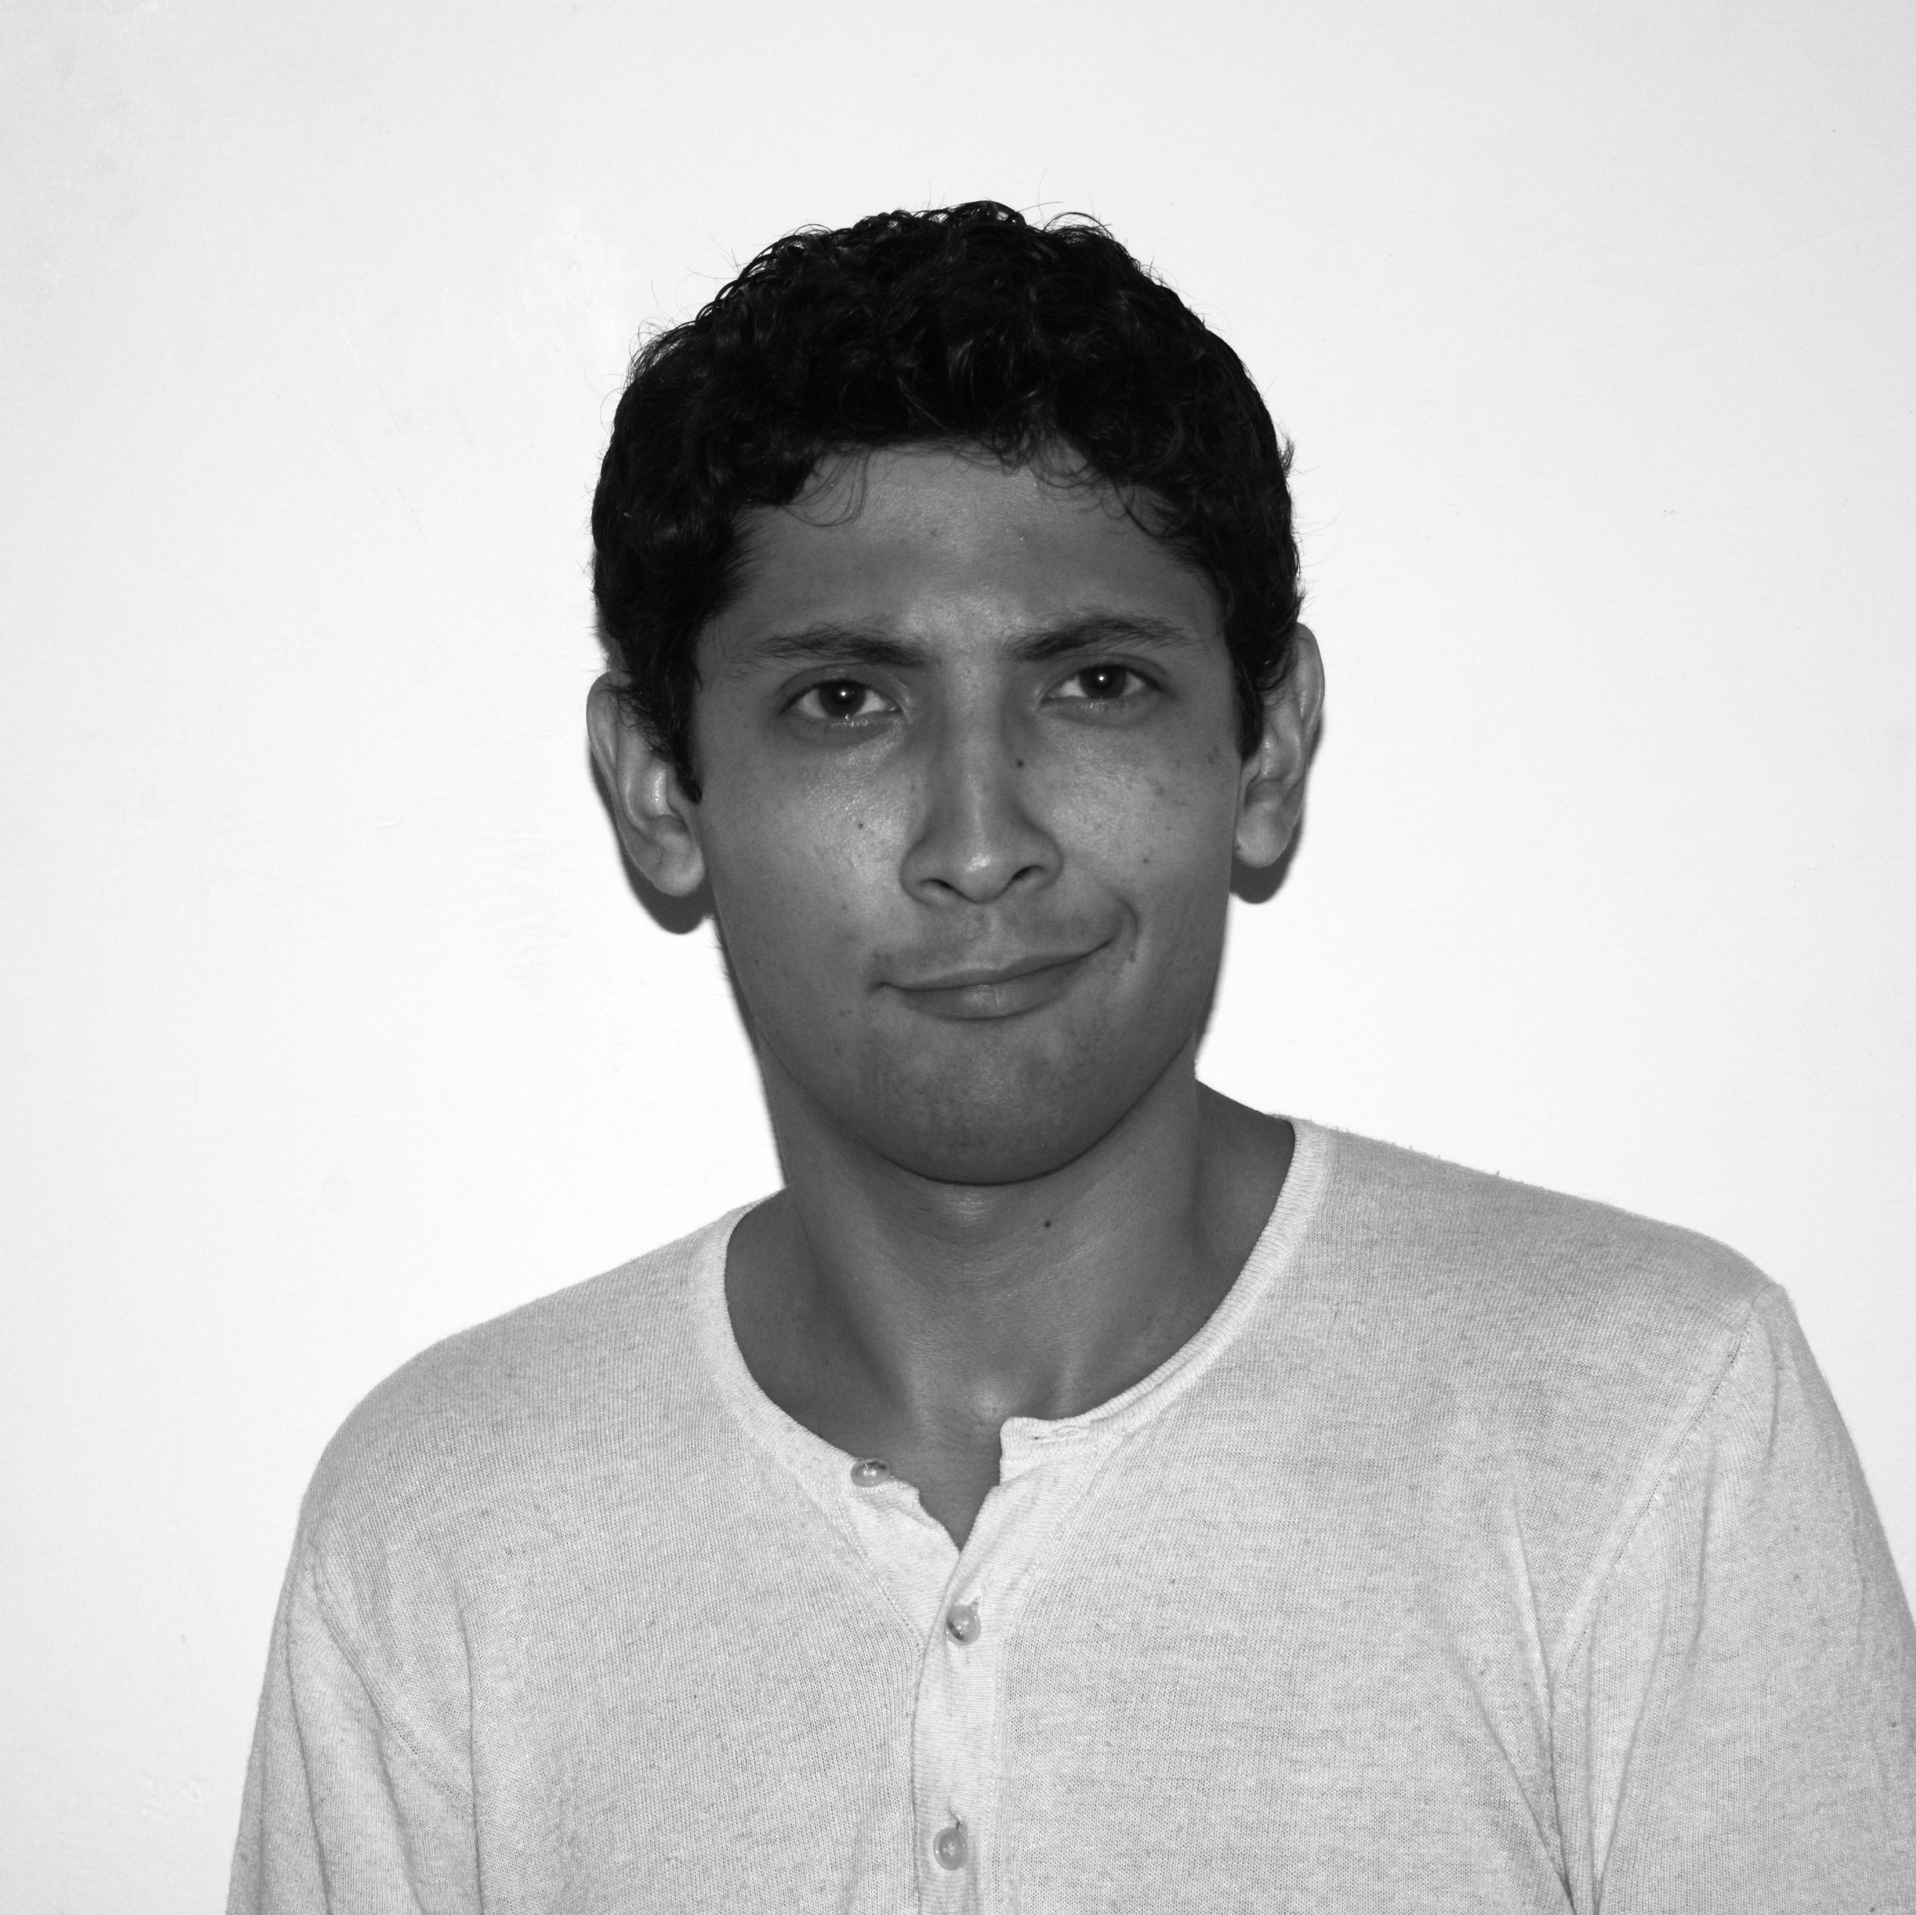
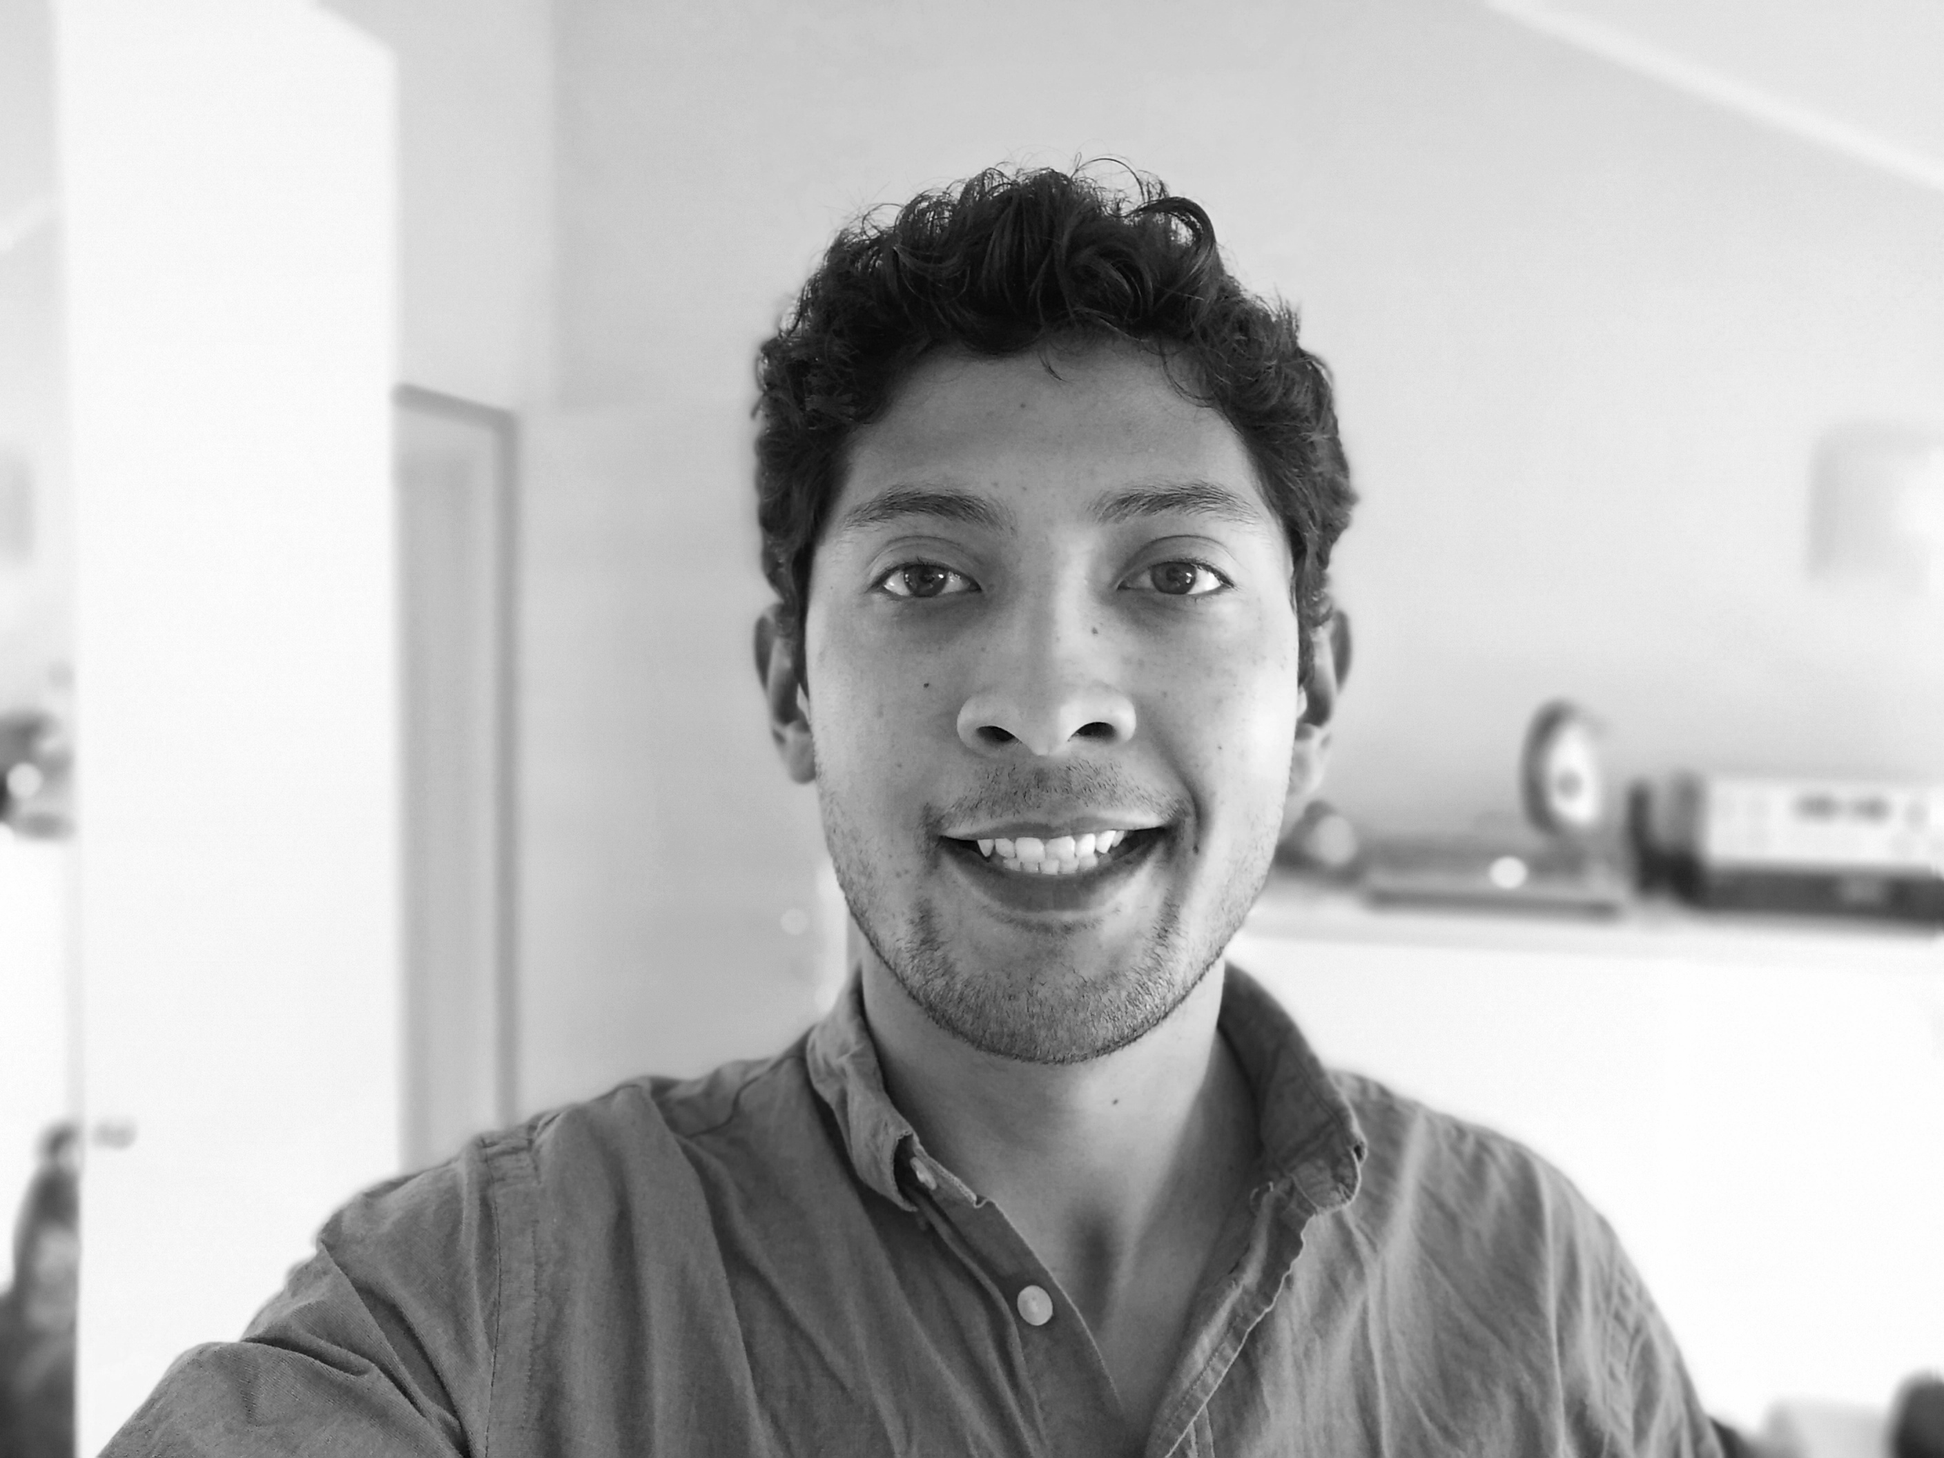
update 23 april 19

diff --git a/theme/stylesheet/style.min.css b/theme/stylesheet/style.min.css
@@ -1,1 +1,1 @@
-html,body{width:100%;height:100%}h1,h2,h3,h4,h5,h6{font-weight:300;line-height:1.1}h1{font-size:2.4em}h2{font-size:2em}h3{font-size:1.6em}h4{font-size:1.36em}h5{font-size:1.2em}h6{font-size:1.1em}body{margin:0;padding:0;background-color:#ffffff;color:#242121;font-family:'Source Sans Pro','Roboto','Open Sans','Liberation Sans','DejaVu Sans','Verdana','Helvetica','Arial',sans-serif;font-size:1.02em;line-height:1.2em}a{color:#D9411E;text-decoration:none}a:hover{color:#FF5A09}hr{color:#eeeeee;background-color:#eeeeee;height:1px;border:none;margin-top:40px;margin-bottom:40px}img{max-width:100%}aside{background-color:#333333;color:#ffffff;text-align:center}aside a{color:#ffffff}aside a:hover{color:#eeeeee}aside div{padding:20px;margin:0}aside div img{border-radius:50%;max-width:140px}aside div h1{margin:15px 0 5px 0}aside div p{margin:0 0 15px 0;font-size:.92em}aside nav ul li{display:inline;line-height:1.6em;font-size:1.28em;text-transform:lowercase}main nav{text-align:center;text-transform:uppercase;font-size:.72em;padding:14px 0 14px 0;border-bottom:#eeeeee 1px solid}main nav a,main .translations a{padding:0 4px 0 4px;border-left:#eeeeee 1px solid;border-right:#eeeeee 1px solid}main nav :first-child,main .translations :first-child{border-left:none}main nav :last-child,main .translations :last-child{border-right:none}main .neighbors{margin:4% 0% 4% 0%;height:20px}main .pagination{margin:4% 8% 4% 8%;height:20px}main .social-share p{font-size:.8em}main article{margin:0 8% 2% 8%}main article header h1,main article header h2{margin-bottom:0}main article header p{color:#999999;font-size:.86em}main article header .translations{float:right}main article header .translations .active{font-weight:600}main article code,main article kbd,main article samp,main article pre{font-family:'Source Code Pro','Consolas','Liberation Mono','DejaVu Sans Mono',monospace}main article blockquote,main article pre{background-color:rgba(128,128,128,0.05);border-top-right-radius:5px;border-bottom-right-radius:5px;border-left:8px solid rgba(128,128,128,0.075);border-left-width:10px}main article blockquote{padding:10px 20px;font-weight:300;font-size:1.1em}main article pre{padding:4px;font-size:.9em;overflow-x:auto}main article samp{white-space:pre;display:block;overflow-x:auto}main article kbd{padding:.1em .6em;border:1px solid rgba(63,63,63,0.25);box-shadow:0 1px 0 rgba(63,63,63,0.25);background-color:#fff;color:#333;border-radius:3px;display:inline-block;margin:0 .1em;white-space:nowrap;font-size:.78em}main article *:not(pre)>code{font-size:.8em;white-space:nowrap;color:#c25;padding:1px 3px;background-color:#f7f7f9;border:1px solid #e1e1e8;border-radius:3px}main article .comment-count{font-size:.8em}main article table{border-collapse:collapse;border-spacing:0}main article table thead:first-child tr:first-child th{border-top:0}main article table th,main article table td{padding:8px;line-height:20px;vertical-align:top;border-top:1px solid #ddd}main footer{padding-top:4px;border-top:#eeeeee 1px solid}main footer p{margin:2px;text-align:center;padding:0 40px 0 40px;color:#999999;font-size:11px}.tag-cloud a{background-color:#D9411E;padding:.2em .6em .2em;font-size:.74em;line-height:1;color:#ffffff;text-align:center;white-space:nowrap;vertical-align:baseline;border-radius:.25em}.tag-cloud a:hover{background-color:#FF5A09}a.btn{background-color:#D9411E;padding:.6em .6em;font-size:.8em;line-height:1;color:#ffffff;text-align:center;white-space:nowrap;vertical-align:baseline;border-radius:.25em}a.btn:hover{background-color:#FF5A09}.center,.text-center{text-align:center}.img-center{margin-left:auto;margin-right:auto;display:block}.align-center{margin-left:auto;margin-right:auto;display:block}.float-left{float:left}.float-right{float:right}div.related-posts{margin:15px 0 15px 0;padding-bottom:20px;border-top:#eeeeee 1px solid;border-bottom:#eeeeee 1px solid}div.related-posts h4{margin:20px 0 25px 0}div.related-posts ul{font-size:1.1em;padding-left:12px}div.related-posts ul li{padding:4px 0 4px 0}ul.list,ul.social,ul.related-posts{list-style-type:none;margin:0;padding:0}ul.list{padding:1em 0 1em 0}ul.list li{padding:4px}ul.social{font-size:1.6em;padding-top:20px}ul.social li{display:inline}ul.social a:hover{z-index:2;-webkit-transform:translateY(-2px);transform:translateY(-2px)}ul.social a{display:inline-block;width:36px;height:36px;border-radius:100%;text-align:center;font-size:.8em;line-height:36px}ul.social a.sc-facebook{background-color:#3e5b98}ul.social a.sc-google{background-color:#d93e2d}ul.social a.sc-instagram{background-color:#125688}ul.social a.sc-pinterest{background-color:#c92619}ul.social a.sc-linkedin{background-color:#3371b7}ul.social a.sc-medium{background-color:#00ab6b}ul.social a.sc-rss{background-color:#f26109}ul.social a.sc-stack-overflow{background-color:#ff9900}ul.social a.sc-tumblr{background-color:#36465d}ul.social a.sc-twitter{background-color:#4da7de}ul.social a.sc-youtube{background-color:#e02a20}ul.social a.sc-github,ul.social a.sc-github-alt{background-color:#111010}ul.social a.sc-envelope{background-color:#578ad6}ul.social a.sc-reddit{background-color:#ff4500}ul.social a.sc-soundcloud{background-color:#ff5500}ul.social a.sc-gitlab{background-color:#fca326}ul.social a.sc-xing{background-color:#007575}ul.social a.sc-bitbucket{background-color:#0747A6}ul.social a.sc-mastodon{background-color:#3088d4}.ads-aside{display:inline-block;height:90px;width:70%}.ads-responsive{display:inline-block;margin:6px 0 6px 0;width:90%;height:70px;margin-left:5%}@media screen and (min-width:768px){aside{width:25%;height:100%;position:fixed;top:0;left:0;overflow-y:auto}aside div{padding:36px 18px}aside div nav ul li{padding:0 !important;display:block}aside div ul.social{padding-top:32px}main{width:75%;height:100%;position:absolute;top:0;left:25%}main article.single{min-height:80%}main article ul.list li{padding:2px}.ads-aside{height:250px}.ads-responsive{height:90px}}
+body,html{width:100%;height:100%}h1,h2,h3,h4,h5,h6{font-weight:300;line-height:1.1}h1{font-size:2.4em}h2{font-size:2em}h3{font-size:1.6em}h4{font-size:1.36em}h5{font-size:1.2em}h6{font-size:1.1em}body{margin:0;padding:0;background-color:#fff;color:#242121;font-family:Source Sans Pro,Roboto,Open Sans,Liberation Sans,DejaVu Sans,Verdana,Helvetica,Arial,sans-serif;font-size:1.02em;line-height:1.2em}a{color:#d9411e;text-decoration:none}a:hover{color:#ff5a09}hr{color:#eee;background-color:#eee;height:1px;border:none;margin-top:40px;margin-bottom:40px}img{max-width:100%}aside{background-color:#333;text-align:center}aside,aside a{color:#fff}aside a:hover{color:#eee}aside div{padding:20px;margin:0}aside div img{border-radius:50%;max-width:140px}aside div h1{margin:15px 0 5px}aside div p{margin:0 0 15px;font-size:.92em}aside nav ul li{display:inline;line-height:1.6em;font-size:1.28em;text-transform:lowercase}main nav{text-align:center;text-transform:uppercase;font-size:.72em;padding:14px 0;border-bottom:1px solid #eee}main .translations a,main nav a{padding:0 4px;border-left:1px solid #eee;border-right:1px solid #eee}main .translations :first-child,main nav :first-child{border-left:none}main .translations :last-child,main nav :last-child{border-right:none}main .neighbors{margin:4% 0;height:20px}main .pagination{margin:4% 8%;height:20px}main .social-share p{font-size:.8em}main article{margin:0 8% 2%}main article header h1,main article header h2{margin-bottom:0}main article header p{color:#999;font-size:.86em}main article header .translations{float:right}main article header .translations .active{font-weight:600}main article code,main article kbd,main article pre,main article samp{font-family:Source Code Pro,Consolas,Liberation Mono,DejaVu Sans Mono,monospace}main article blockquote,main article pre{background-color:hsla(0,0%,50%,.05);border-top-right-radius:5px;border-bottom-right-radius:5px;border-left:8px solid hsla(0,0%,50%,.075);border-left-width:10px}main article blockquote{padding:10px 20px;font-weight:300;font-size:1.1em}main article pre{padding:4px;font-size:.9em;overflow-x:auto}main article samp{white-space:pre;display:block;overflow-x:auto}main article kbd{padding:.1em .6em;border:1px solid rgba(63,63,63,.25);box-shadow:0 1px 0 rgba(63,63,63,.25);background-color:#fff;color:#333;border-radius:3px;display:inline-block;margin:0 .1em;white-space:nowrap;font-size:.78em}main article :not(pre)>code{font-size:.8em;white-space:nowrap;color:#c25;padding:1px 3px;background-color:#f7f7f9;border:1px solid #e1e1e8;border-radius:3px}main article .comment-count{font-size:.8em}main article table{border-collapse:collapse;border-spacing:0}main article table thead:first-child tr:first-child th{border-top:0}main article table td,main article table th{padding:8px;line-height:20px;vertical-align:top;border-top:1px solid #ddd}main footer{padding-top:4px;border-top:1px solid #eee}main footer p{margin:2px;text-align:center;padding:0 40px;color:#999;font-size:11px}.tag-cloud a{background-color:#d9411e;padding:.2em .6em;font-size:.74em;line-height:1;color:#fff;text-align:center;white-space:nowrap;vertical-align:baseline;border-radius:.25em}.tag-cloud a:hover{background-color:#ff5a09}a.btn{background-color:#d9411e;padding:.6em;font-size:.8em;line-height:1;color:#fff;text-align:center;white-space:nowrap;vertical-align:baseline;border-radius:.25em}a.btn:hover{background-color:#ff5a09}.center,.text-center{text-align:center}.align-center,.img-center{margin-left:auto;margin-right:auto;display:block}.float-left{float:left}.float-right{float:right}div.related-posts{margin:15px 0;padding-bottom:20px;border-top:1px solid #eee;border-bottom:1px solid #eee}div.related-posts h4{margin:20px 0 25px}div.related-posts ul{font-size:1.1em;padding-left:12px}div.related-posts ul li{padding:4px 0}ul.list,ul.related-posts,ul.social{list-style-type:none;margin:0;padding:0}ul.list{padding:1em 0}ul.list li{padding:4px}ul.social{font-size:1.6em;padding-top:20px}ul.social li{display:inline}ul.social a:hover{z-index:1;transform:translateY(-2px)}ul.social a{display:inline-block;width:36px;height:36px;border-radius:100%;text-align:center;font-size:.8em;line-height:36px}ul.social a.sc-facebook{background-color:#3e5b98}ul.social a.sc-google{background-color:#d93e2d}ul.social a.sc-instagram{background-color:#125688}ul.social a.sc-keybase{background-color:#4c8dff}ul.social a.sc-pinterest{background-color:#c92619}ul.social a.sc-linkedin{background-color:#3371b7}ul.social a.sc-medium{background-color:#00ab6b}ul.social a.sc-rss{background-color:#f26109}ul.social a.sc-stack-overflow{background-color:#f90}ul.social a.sc-tumblr{background-color:#36465d}ul.social a.sc-twitter{background-color:#4da7de}ul.social a.sc-youtube{background-color:#e02a20}ul.social a.sc-github,ul.social a.sc-github-alt{background-color:#111010}ul.social a.sc-envelope{background-color:#578ad6}ul.social a.sc-reddit{background-color:#ff4500}ul.social a.sc-soundcloud{background-color:#f50}ul.social a.sc-gitlab{background-color:#fca326}ul.social a.sc-xing{background-color:#007575}ul.social a.sc-bitbucket{background-color:#0747a6}ul.social a.sc-mastodon{background-color:#3088d4}.ads-aside{display:inline-block;height:90px;width:70%}.ads-responsive{display:inline-block;margin:6px 0;width:90%;height:70px;margin-left:5%}@media screen and (min-width:768px){aside{width:25%;height:100%;position:fixed;top:0;left:0;overflow-y:auto}aside div{padding:36px 18px}aside div nav ul li{padding:0!important;display:block}aside div ul.social{padding-top:32px}main{width:75%;height:100%;position:absolute;top:0;left:25%}main article.single{min-height:80%}main article ul.list li{padding:2px}.ads-aside{height:250px}.ads-responsive{height:90px}}

diff --git a/archives.html b/archives.html
@@ -51,7 +51,7 @@
   <aside>
     <div>
       <a href="">
-        <img src="/theme/img/oscar.jpg" alt="" title="">
+        <img src="/theme/img/profile.png" alt="" title="">
       </a>
       <h1><a href=""></a></h1>
 

diff --git a/authors.html b/authors.html
@@ -51,7 +51,7 @@
   <aside>
     <div>
       <a href="">
-        <img src="/theme/img/oscar.jpg" alt="" title="">
+        <img src="/theme/img/profile.png" alt="" title="">
       </a>
       <h1><a href=""></a></h1>
 

diff --git a/categories.html b/categories.html
@@ -51,7 +51,7 @@
   <aside>
     <div>
       <a href="">
-        <img src="/theme/img/oscar.jpg" alt="" title="">
+        <img src="/theme/img/profile.png" alt="" title="">
       </a>
       <h1><a href=""></a></h1>
 

diff --git a/index.html b/index.html
@@ -50,7 +50,7 @@
   <aside>
     <div>
       <a href="">
-        <img src="/theme/img/oscar.jpg" alt="" title="">
+        <img src="/theme/img/profile.png" alt="" title="">
       </a>
       <h1><a href=""></a></h1>
 

diff --git a/pages/about-es.html b/pages/about-es.html
@@ -50,7 +50,7 @@
   <aside>
     <div>
       <a href="">
-        <img src="/theme/img/oscar.jpg" alt="" title="">
+        <img src="/theme/img/profile.png" alt="" title="">
       </a>
       <h1><a href=""></a></h1>
 

diff --git a/pages/about.html b/pages/about.html
@@ -50,7 +50,7 @@
   <aside>
     <div>
       <a href="">
-        <img src="/theme/img/oscar.jpg" alt="" title="">
+        <img src="/theme/img/profile.png" alt="" title="">
       </a>
       <h1><a href=""></a></h1>
 

diff --git a/pages/contact-es.html b/pages/contact-es.html
@@ -50,7 +50,7 @@
   <aside>
     <div>
       <a href="">
-        <img src="/theme/img/oscar.jpg" alt="" title="">
+        <img src="/theme/img/profile.png" alt="" title="">
       </a>
       <h1><a href=""></a></h1>
 

diff --git a/pages/contact.html b/pages/contact.html
@@ -50,7 +50,7 @@
   <aside>
     <div>
       <a href="">
-        <img src="/theme/img/oscar.jpg" alt="" title="">
+        <img src="/theme/img/profile.png" alt="" title="">
       </a>
       <h1><a href=""></a></h1>
 

diff --git a/pages/home-es.html b/pages/home-es.html
@@ -50,7 +50,7 @@
   <aside>
     <div>
       <a href="">
-        <img src="/theme/img/oscar.jpg" alt="" title="">
+        <img src="/theme/img/profile.png" alt="" title="">
       </a>
       <h1><a href=""></a></h1>
 

diff --git a/pages/outreach-es.html b/pages/outreach-es.html
@@ -50,7 +50,7 @@
   <aside>
     <div>
       <a href="">
-        <img src="/theme/img/oscar.jpg" alt="" title="">
+        <img src="/theme/img/profile.png" alt="" title="">
       </a>
       <h1><a href=""></a></h1>
 

diff --git a/pages/outreach.html b/pages/outreach.html
@@ -50,7 +50,7 @@
   <aside>
     <div>
       <a href="">
-        <img src="/theme/img/oscar.jpg" alt="" title="">
+        <img src="/theme/img/profile.png" alt="" title="">
       </a>
       <h1><a href=""></a></h1>
 
